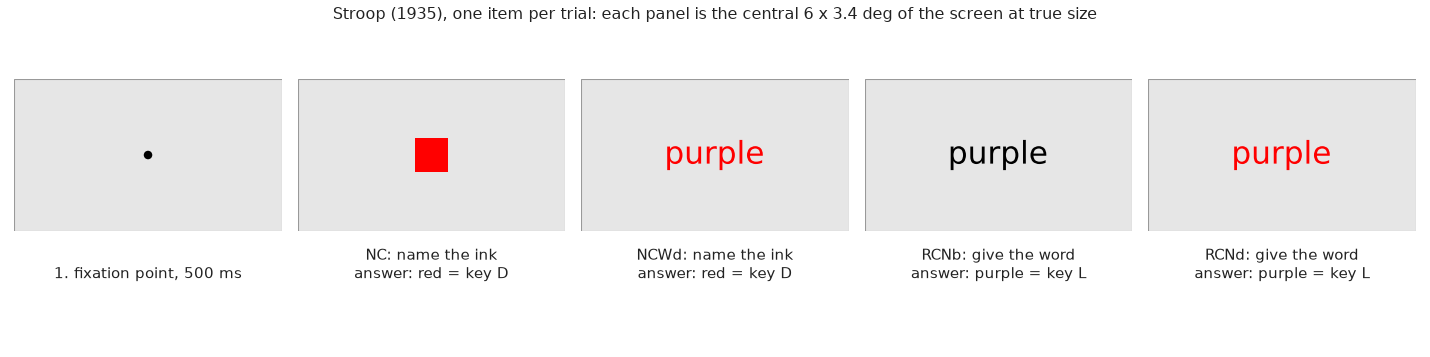
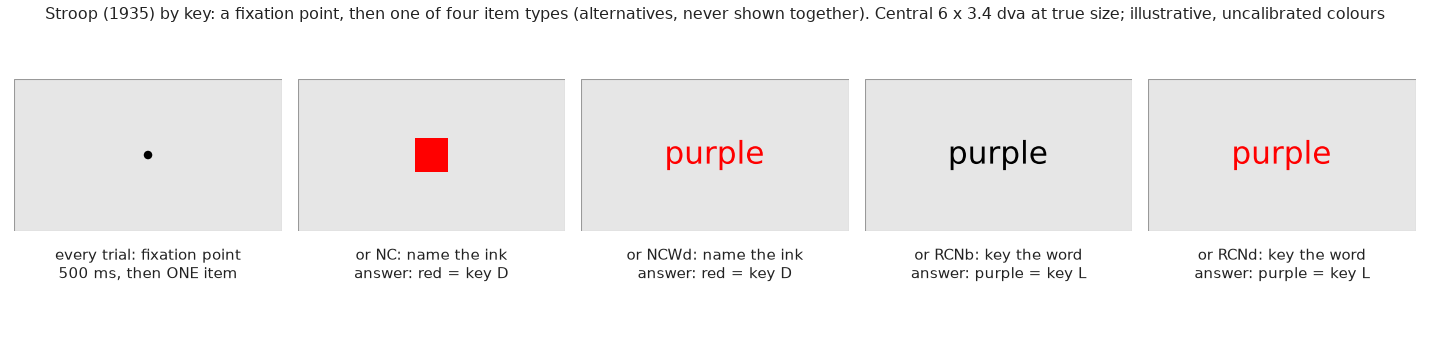
stroop-1935: reader summary, preview shows trial order vs alternative items, guide overlay
At a glance section; the preview now says each trial is a fixation point and ONE item
and labels the four item types as alternatives; illustrative, uncalibrated colours.
docs/guide-overlay.json carried over unchanged in substance. No protocol change.

diff --git a/classics/stroop-1935/src/stroop1935/preview.py b/classics/stroop-1935/src/stroop1935/preview.py
@@ -45,11 +45,12 @@ def _word(ax, text: str, color, height: float) -> None:
 def render(out: Path) -> Path:
     p = load_params(PROJECT / "configs" / "task.yaml", StroopParams)
     first = {t: sheet.items(t, p.sheet_seed, 1)[0] for t in sheet.TESTS}
-    panels = [("fixation", "fixation point, 500 ms,\nthen one item", None),
-              (sheet.NC, "NC: name the ink", first[sheet.NC]),
-              (sheet.NCWD, "NCWd: name the ink", first[sheet.NCWD]),
-              (sheet.RCNB, "RCNb: give the word", first[sheet.RCNB]),
-              (sheet.RCND, "RCNd: give the word", first[sheet.RCND])]
+    fix_caption = f"every trial: fixation point\n{p.fixation_duration.ms:g} ms, then ONE item"
+    panels = [("fixation", fix_caption, None),
+              (sheet.NC, "or NC: name the ink", first[sheet.NC]),
+              (sheet.NCWD, "or NCWd: name the ink", first[sheet.NCWD]),
+              (sheet.RCNB, "or RCNb: key the word", first[sheet.RCNB]),
+              (sheet.RCND, "or RCNd: key the word", first[sheet.RCND])]
     fig, axes = plt.subplots(1, len(panels), figsize=(11, 2.75), dpi=130)
     fig.patch.set_facecolor("white")
     for ax, (test, caption, item) in zip(axes, panels, strict=True):
@@ -71,8 +72,9 @@ def render(out: Path) -> Path:
         ax.set_aspect("equal")
         ax.axis("off")
         ax.set_title(caption, fontsize=8.5, color="#222222", pad=4, loc="center", y=-0.36)
-    fig.suptitle("Stroop (1935), one item per trial: each panel is the central 6 x 3.4 deg "
-                 "of the screen at true size", fontsize=9, color="#222222", y=0.98)
+    fig.suptitle("Stroop (1935) by key: a fixation point, then one of four item types "
+                 "(alternatives, never shown together). Central 6 x 3.4 dva at true size; "
+                 "illustrative, uncalibrated colours", fontsize=9, color="#222222", y=0.98)
     fig.subplots_adjust(left=0.01, right=0.99, top=0.88, bottom=0.25, wspace=0.06)
     out.parent.mkdir(parents=True, exist_ok=True)
     fig.savefig(out, facecolor=fig.get_facecolor())

diff --git a/classics/stroop-1935/docs/methods.md b/classics/stroop-1935/docs/methods.md
@@ -16,6 +16,28 @@ becomes one item per trial answered with one key per colour and timed per item (
 deviations table). **Hardware.** A display and a keyboard; no eye tracker, audio, reward or
 external devices.
 
+## At a glance
+
+- **Question.** How much does a colour word slow the naming of the ink it is printed in, and
+  how much does the ink slow responding to the word?
+- **What the subject sees.** A small black point, then one item at the centre of a near-white
+  page: a solid colour square, a colour word printed in another colour's ink, or a colour word
+  in black. Items come in the order of a 100-item sheet built by Stroop's rules.
+- **What the subject does.** Presses one of five keys (D F J K L for red, blue, green, brown,
+  purple): for the ink in the colour-naming task, for the word in the word-reading task. A
+  wrong key leaves the item on screen until the right key.
+- **What is varied.** The test, by block, in a balanced order: squares (NC) against words in
+  another ink (NCWd) for colour naming; words in black (RCNb) against words in another ink
+  (RCNd) for word reading.
+- **What is recorded.** For every item the keys pressed, the reaction time from the item's
+  frame, and whether an error was corrected; the analysis also sums the item times per sheet
+  with Stroop's charge for uncorrected errors.
+- **What a result would mean.** NCWd against NC, as a ratio to NC, is the word's interference
+  with colour naming and is the number to compare with Stroop's 74%. Keys are not speech:
+  summed key times are not Stroop's sheet times, and word reading by key is not expected to
+  reproduce his near-null Experiment 1 effect. Monitor colours are uncalibrated. No
+  participant data has been recorded with this folder.
+
 ## Question
 
 Stroop asked how much two simultaneous, conflicting aspects of one printed item interfere with
